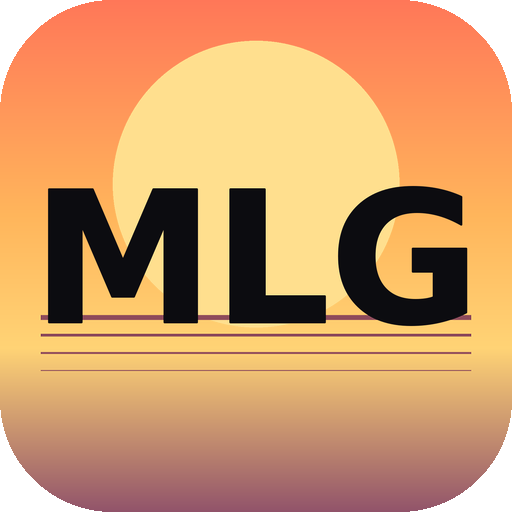
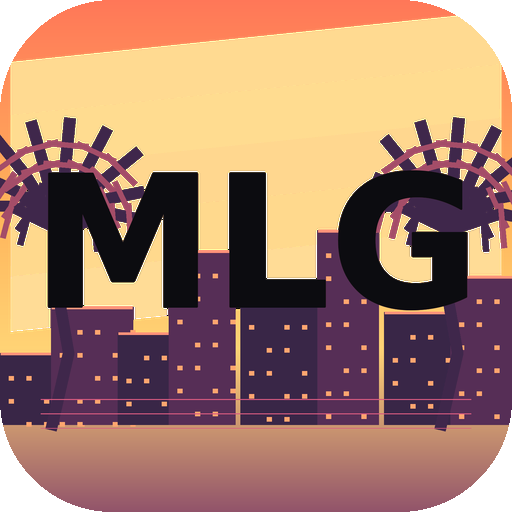
Actualizar nombre y metadatos de instalación PWA

diff --git a/app/index.html b/app/index.html
@@ -3,16 +3,17 @@
 <head>
   <meta charset="utf-8">
   <meta name="viewport" content="width=device-width, initial-scale=1, viewport-fit=cover">
-  <title>MyLiveGame (beta)</title>
+  <title>MyLiveGame</title>
+  <meta name="application-name" content="MyLiveGame">
   <meta name="description" content="MyLiveGame (beta): convierte tus tareas en misiones.">
   <meta name="theme-color" content="#ff9a5c">
   <meta name="mobile-web-app-capable" content="yes">
   <meta name="apple-mobile-web-app-capable" content="yes">
   <meta name="apple-mobile-web-app-status-bar-style" content="black-translucent">
   <meta name="apple-mobile-web-app-title" content="MyLiveGame">
-  <link rel="manifest" href="manifest.webmanifest">
-  <link rel="icon" type="image/png" sizes="64x64" href="iconos/favicon-64.png">
-  <link rel="apple-touch-icon" href="iconos/apple-touch-icon.png">
+  <link rel="manifest" href="manifest.webmanifest?v=2.0.1">
+  <link rel="icon" type="image/png" sizes="64x64" href="iconos/favicon-64.png?v=2.0.1">
+  <link rel="apple-touch-icon" sizes="180x180" href="iconos/apple-touch-icon.png?v=2.0.1">
   <link rel="stylesheet" href="style.css">
 </head>
 <body data-tipo="principales">

diff --git a/docs/index.html b/docs/index.html
@@ -3,16 +3,17 @@
 <head>
   <meta charset="utf-8">
   <meta name="viewport" content="width=device-width, initial-scale=1, viewport-fit=cover">
-  <title>MyLiveGame (beta)</title>
+  <title>MyLiveGame</title>
+  <meta name="application-name" content="MyLiveGame">
   <meta name="description" content="MyLiveGame (beta): convierte tus tareas en misiones.">
   <meta name="theme-color" content="#ff9a5c">
   <meta name="mobile-web-app-capable" content="yes">
   <meta name="apple-mobile-web-app-capable" content="yes">
   <meta name="apple-mobile-web-app-status-bar-style" content="black-translucent">
   <meta name="apple-mobile-web-app-title" content="MyLiveGame">
-  <link rel="manifest" href="manifest.webmanifest">
-  <link rel="icon" type="image/png" sizes="64x64" href="iconos/favicon-64.png">
-  <link rel="apple-touch-icon" href="iconos/apple-touch-icon.png">
+  <link rel="manifest" href="manifest.webmanifest?v=2.0.1">
+  <link rel="icon" type="image/png" sizes="64x64" href="iconos/favicon-64.png?v=2.0.1">
+  <link rel="apple-touch-icon" sizes="180x180" href="iconos/apple-touch-icon.png?v=2.0.1">
   <link rel="stylesheet" href="style.css">
 </head>
 <body data-tipo="principales">

diff --git a/app/sw.js b/app/sw.js
@@ -5,7 +5,7 @@
 
 "use strict";
 
-const CACHE = "mylivegame-app-2376d4ff";
+const CACHE = "mylivegame-app-e749a994";
 
 const RECURSOS = [
   "./",
@@ -14,11 +14,11 @@ const RECURSOS = [
   "./nucleo.js",
   "./almacen.js",
   "./manifest.webmanifest",
-  "./iconos/icono-192.png",
-  "./iconos/icono-512.png",
-  "./iconos/icono-maskable-512.png",
-  "./iconos/apple-touch-icon.png",
-  "./iconos/favicon-64.png",
+  "./iconos/icono-192.png?v=2.0.1",
+  "./iconos/icono-512.png?v=2.0.1",
+  "./iconos/icono-maskable-512.png?v=2.0.1",
+  "./iconos/apple-touch-icon.png?v=2.0.1",
+  "./iconos/favicon-64.png?v=2.0.1",
 ];
 
 self.addEventListener("install", (evento) => {

diff --git a/docs/sw.js b/docs/sw.js
@@ -5,7 +5,7 @@
 
 "use strict";
 
-const CACHE = "mylivegame-app-2376d4ff";
+const CACHE = "mylivegame-app-e749a994";
 
 const RECURSOS = [
   "./",
@@ -14,11 +14,11 @@ const RECURSOS = [
   "./nucleo.js",
   "./almacen.js",
   "./manifest.webmanifest",
-  "./iconos/icono-192.png",
-  "./iconos/icono-512.png",
-  "./iconos/icono-maskable-512.png",
-  "./iconos/apple-touch-icon.png",
-  "./iconos/favicon-64.png",
+  "./iconos/icono-192.png?v=2.0.1",
+  "./iconos/icono-512.png?v=2.0.1",
+  "./iconos/icono-maskable-512.png?v=2.0.1",
+  "./iconos/apple-touch-icon.png?v=2.0.1",
+  "./iconos/favicon-64.png?v=2.0.1",
 ];
 
 self.addEventListener("install", (evento) => {

diff --git a/app/iconos/generar_iconos.py b/app/iconos/generar_iconos.py
@@ -13,6 +13,68 @@ def mezclar(a, b, t):
     return tuple(round(x + (y - x) * t) for x, y in zip(a, b))
 
 
+def palma(dibujo, x, base, escala, color, brillo):
+    ancho = max(2, round(escala * 0.022))
+    corona = (x + escala * 0.018, base - escala * 0.39)
+    dibujo.line(
+        [
+            (x, base),
+            (x + escala * 0.035, base - escala * 0.15),
+            (x + escala * 0.012, base - escala * 0.28),
+            corona,
+        ],
+        fill=color,
+        width=ancho,
+        joint="curve",
+    )
+    # Hojas arqueadas y nervaduras: silueta tropical, no un logotipo ajeno.
+    for angulo in (-165, -145, -125, -105, -85, -65, -45, -25, -5):
+        import math
+
+        rad = math.radians(angulo)
+        largo = escala * (0.18 if abs(angulo + 85) > 40 else 0.22)
+        punta = (corona[0] + math.cos(rad) * largo, corona[1] + math.sin(rad) * largo)
+        medio = (corona[0] + (punta[0] - corona[0]) * 0.56, corona[1] + (punta[1] - corona[1]) * 0.48 - escala * 0.025)
+        dibujo.line([corona, medio, punta], fill=color, width=ancho)
+        for paso in (0.38, 0.58, 0.76):
+            px = corona[0] + (punta[0] - corona[0]) * paso
+            py = corona[1] + (punta[1] - corona[1]) * paso
+            largo_hoja = escala * 0.055 * (1 - paso * 0.35)
+            # Hojas a ambos lados de la nervadura principal.
+            for lado in (-1, 1):
+                dibujo.line(
+                    [(px, py), (px - math.sin(rad) * largo_hoja * lado, py + math.cos(rad) * largo_hoja * lado)],
+                    fill=brillo if paso > 0.55 else color,
+                    width=max(1, ancho // 2),
+                )
+
+
+def skyline(dibujo, lado):
+    base = int(lado * 0.83)
+    oscuro = (86, 47, 86, 240)
+    sombra = (57, 39, 72, 245)
+    luz = (255, 166, 112, 235)
+    edificios = [
+        (0.00, 0.19, 0.14), (0.10, 0.16, 0.23), (0.23, 0.12, 0.18),
+        (0.33, 0.13, 0.34), (0.47, 0.15, 0.24), (0.62, 0.12, 0.38),
+        (0.75, 0.15, 0.22), (0.88, 0.18, 0.29),
+    ]
+    for indice, (pos, ancho, altura) in enumerate(edificios):
+        x0 = int(lado * pos)
+        x1 = int(lado * (pos + ancho))
+        y0 = int(lado * (0.83 - altura))
+        color = oscuro if indice % 2 else sombra
+        dibujo.rectangle((x0, y0, x1, base), fill=color)
+        # Detalles art déco y algunas ventanas cálidas.
+        dibujo.line((x0 + 2, y0 + 2, x1 - 2, y0 + 2), fill=(255, 147, 122, 220), width=max(1, lado // 180))
+        paso_x = max(5, int(lado * 0.035))
+        paso_y = max(6, int(lado * 0.045))
+        for wx in range(x0 + paso_x // 2, x1 - 2, paso_x):
+            for wy in range(y0 + paso_y, base - 3, paso_y):
+                if (wx // paso_x + wy // paso_y + indice) % 3:
+                    dibujo.rectangle((wx, wy, wx + max(1, lado // 100), wy + max(1, lado // 110)), fill=luz)
+
+
 def crear_icono(tam, maskable=False):
     escala = 3
     lado = tam * escala
@@ -34,14 +96,26 @@ def crear_icono(tam, maskable=False):
             pixel[x, y] = (*color, 255)
 
     dibujo = ImageDraw.Draw(img)
-    # Disco solar y líneas de horizonte, detrás de las letras negras.
-    sol = int(lado * 0.28)
-    cx, cy = lado // 2, int(lado * 0.36)
-    dibujo.ellipse((cx - sol, cy - sol, cx + sol, cy + sol), fill=(255, 224, 142, 210))
-    horizonte = int(lado * 0.62)
-    for i, grosor in enumerate((5, 3, 2, 1)):
-        yy = horizonte + i * int(lado * 0.035)
-        dibujo.line((int(lado * 0.08), yy, int(lado * 0.92), yy), fill=(142, 76, 91, 145), width=grosor * escala)
+
+    # Bandas oblicuas de póster retro sobre la misma paleta de atardecer.
+    for indice in range(5):
+        y = int(lado * (0.12 + indice * 0.105))
+        color = (255, 218, 145, 42 - indice * 5)
+        dibujo.polygon(
+            [(int(lado * 0.02), y), (int(lado * 0.98), y - int(lado * 0.10)),
+             (int(lado * 0.98), y + int(lado * 0.012)), (int(lado * 0.02), y + int(lado * 0.11))],
+            fill=color,
+        )
+
+    skyline(dibujo, lado)
+    palma(dibujo, int(lado * 0.10), int(lado * 0.84), lado, (63, 39, 75, 255), (164, 77, 104, 255))
+    palma(dibujo, int(lado * 0.86), int(lado * 0.84), lado, (63, 39, 75, 255), (164, 77, 104, 255))
+
+    # Neon magenta glints and a thin horizon line frame the wordmark.
+    neon = (220, 92, 130, 230)
+    for offset in (0, 1, 2):
+        yy = int(lado * (0.78 + offset * 0.028))
+        dibujo.line((int(lado * 0.08), yy, int(lado * 0.92), yy), fill=neon, width=max(1, escala - offset // 2))
 
     fuente = ImageFont.truetype(FUENTE, int(lado * 0.42))
     texto = "MLG"
@@ -50,7 +124,9 @@ def crear_icono(tam, maskable=False):
         fuente = ImageFont.truetype(FUENTE, int(fuente.size * 0.96))
         caja = dibujo.textbbox((0, 0), texto, font=fuente)
     x = (lado - (caja[2] - caja[0])) // 2 - caja[0]
-    y = (lado - (caja[3] - caja[1])) // 2 - caja[1]
+    y = int(lado * 0.47) - (caja[3] - caja[1]) // 2 - caja[1]
+    # Sombra corta para dar profundidad de cartel, manteniendo el MLG negro.
+    dibujo.text((x + escala * 0.012, y + escala * 0.014), texto, font=fuente, fill=(143, 59, 86, 245), stroke_width=max(1, escala), stroke_fill=(143, 59, 86, 245))
     dibujo.text((x, y), texto, font=fuente, fill=(12, 12, 16, 255), stroke_width=max(1, escala), stroke_fill=(12, 12, 16, 255))
 
     img = img.resize((tam, tam), Image.Resampling.LANCZOS)

diff --git a/README.md b/README.md
@@ -7,6 +7,7 @@ aplicación instalable y una versión web con servidor propio.
 
 - **Abrir / instalar la aplicación:** [MyLiveGame (PWA)](https://karlos3795.github.io/MyLiveGame/)
 - **Instalar en móvil:** abre el enlace anterior en el navegador y elige **Añadir a pantalla de inicio** o **Instalar app**. No hace falta descargar un APK.
+- **Actualizar una instalación anterior:** abre la PWA una vez. Si el móvil sigue mostrando el nombre o icono antiguo, exporta primero una copia JSON y vuelve a añadir el acceso directo; algunos sistemas mantienen los iconos en caché.
 - **Versión web:** inicia el servidor local con `python3 web/server.py` y abre [http://127.0.0.1:8000](http://127.0.0.1:8000). [Ver los archivos de la versión web](https://github.com/Karlos3795/MyLiveGame/tree/main/web). Todavía no hay un servicio web remoto publicado.
 
 La aplicación funciona sin conexión después de la primera visita. Los datos se
